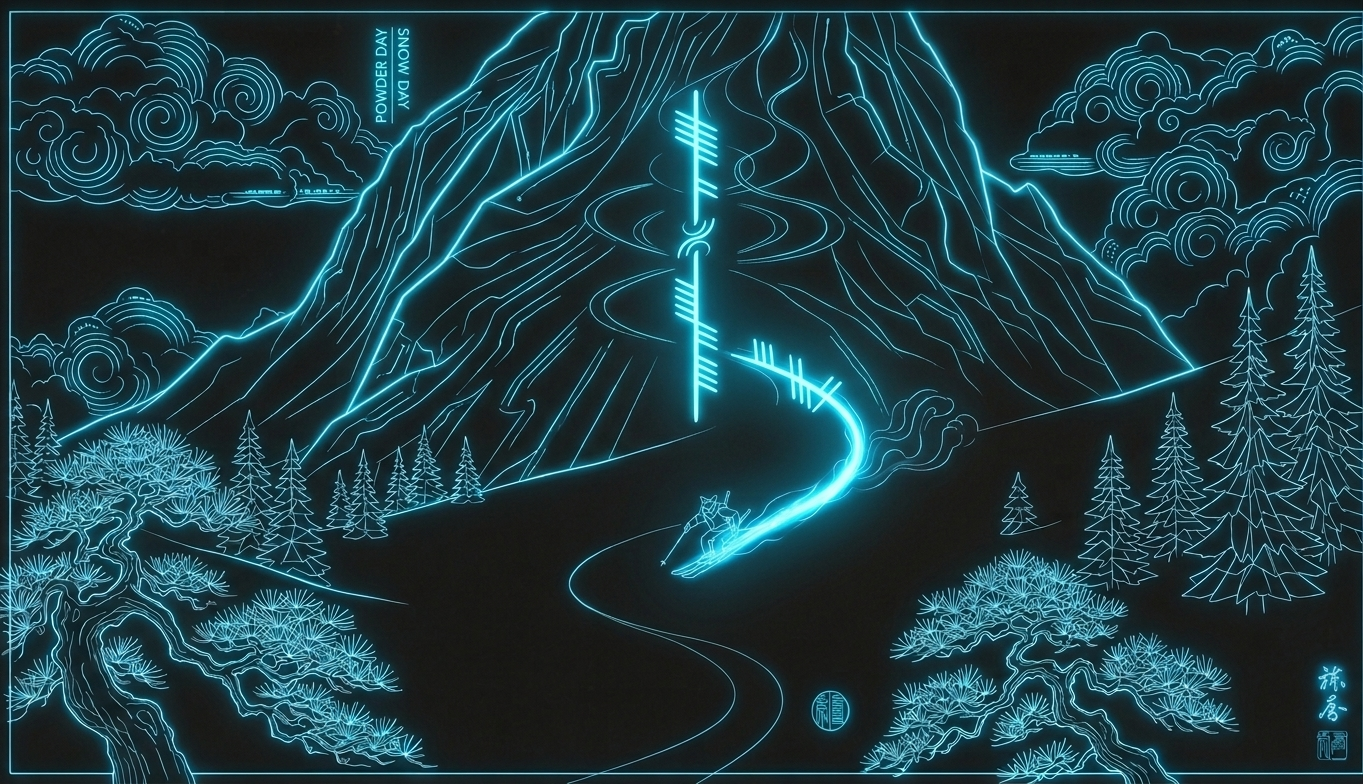
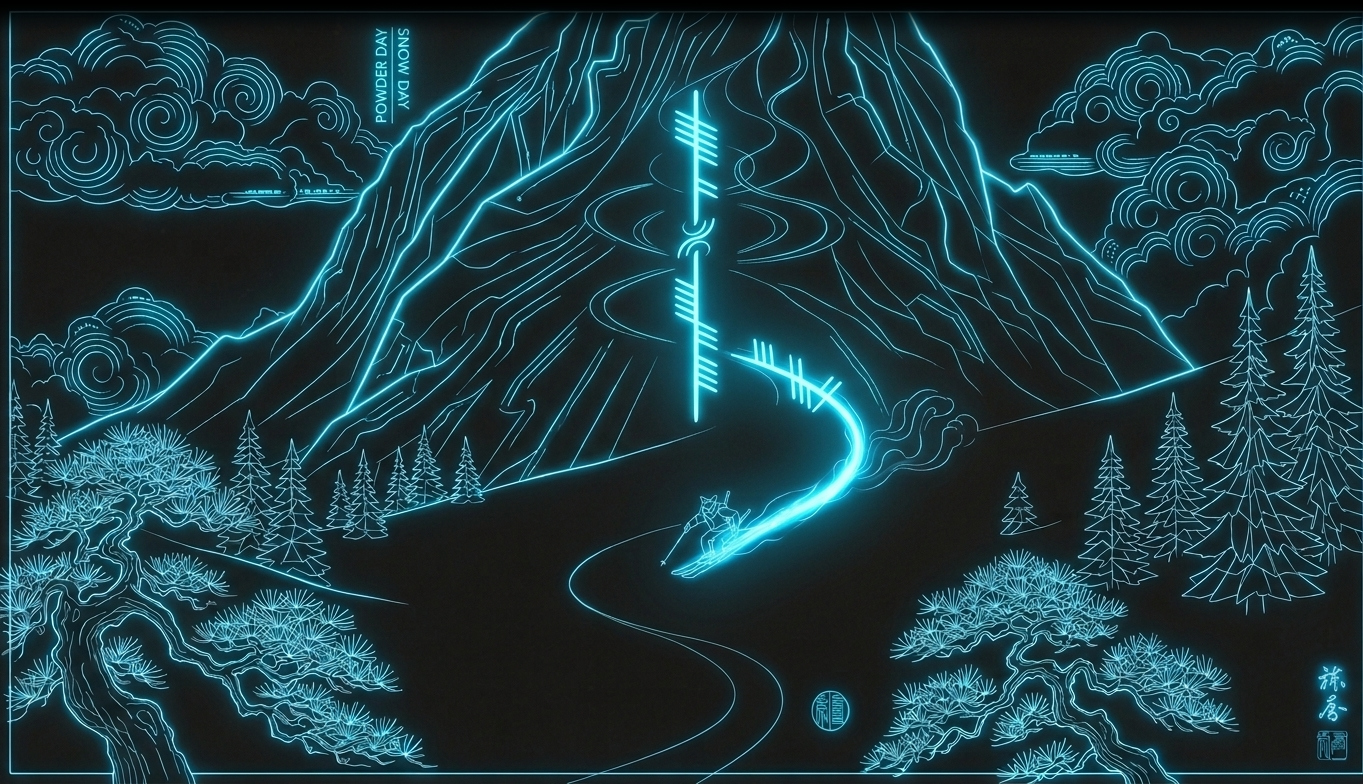
kOMA Powder: top fades to black behind the panel
The top 40 pixels of the image ease to black so the top panel reads clearly. design/wallpaper/fade-top.py renders it from the untouched source in the workspace's Raw-assets, so re-running never fades twice.

Changed region(s): [[0.0, 0.0, 1.0, 0.0612]]

diff --git a/design/wallpaper/fade-top.py b/design/wallpaper/fade-top.py
@@ -1,0 +1,38 @@
+#!/usr/bin/env python3
+"""Fade the top of a wallpaper to black, so the top panel stands out against it.
+
+    fade-top.py SOURCE OUT [--px 40]
+
+Always start from the untouched source, so re-running gives the same result. kOMA Powder:
+    fade-top.py ../Raw-assets/wallpapers/kOMA-Powder-source.jpg \\
+        wallpapers/kOMA-Powder/contents/images/1363x784.jpg
+"""
+
+import argparse
+from pathlib import Path
+
+from PIL import Image
+
+
+def fade_top(img, px):
+    img = img.convert("RGB")
+    # black at the top edge, easing out to the untouched image at px
+    shade = Image.new("L", img.size, 255)
+    for y in range(min(px, img.height)):
+        t = y / px
+        shade.paste(round(255 * t * t * (3 - 2 * t)), (0, y, img.width, y + 1))
+    return Image.composite(img, Image.new("RGB", img.size), shade)
+
+
+def main():
+    ap = argparse.ArgumentParser(description=__doc__.split("\n\n")[0])
+    ap.add_argument("source", type=Path)
+    ap.add_argument("out", type=Path)
+    ap.add_argument("--px", type=int, default=40)
+    a = ap.parse_args()
+    fade_top(Image.open(a.source), a.px).save(a.out, quality=98, subsampling=0, optimize=True)
+    print(a.out)
+
+
+if __name__ == "__main__":
+    main()
